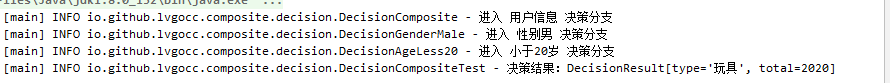
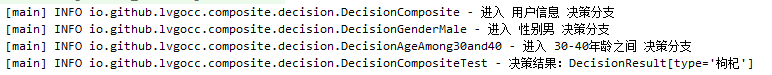
组合模式 🌴

diff --git a/composite/src/main/java/io/github/lvgocc/composite/decision/DecisionResult.java b/composite/src/main/java/io/github/lvgocc/composite/decision/DecisionResult.java
@@ -19,19 +19,10 @@ public class DecisionResult extends DecisionComponent {
      * 商品类型
      */
     private String type;
-    /**
-     * 商品数量
-     */
-    private int total;
 
-    public DecisionResult(String name, String type, int total) {
+    public DecisionResult(String name, String type) {
         super(name);
         this.type = type;
-        this.total = total;
-    }
-
-    public DecisionResult(String name) {
-        super(name);
     }
 
     public String getType() {
@@ -42,19 +33,10 @@ public class DecisionResult extends DecisionComponent {
         this.type = type;
     }
 
-    public int getTotal() {
-        return total;
-    }
-
-    public void setTotal(int total) {
-        this.total = total;
-    }
-
     @Override
     public String toString() {
         return new StringJoiner(", ", DecisionResult.class.getSimpleName() + "[", "]")
                 .add("type='" + type + "'")
-                .add("total=" + total)
                 .toString();
     }
 

diff --git a/composite/src/test/java/io/github/lvgocc/composite/decision/DecisionCompositeTest.java b/composite/src/test/java/io/github/lvgocc/composite/decision/DecisionCompositeTest.java
@@ -34,8 +34,8 @@ class DecisionCompositeTest {
         genderMale.add(ageLess20);
         genderMale.add(ageThan40);
 
-        ageLess20.add(new DecisionResult("决策结果", "玩具", 2020));
-        ageAmong30and40.add(new DecisionResult("决策结果", "枸杞", 2020));
+        ageLess20.add(new DecisionResult("决策结果", "玩具"));
+        ageAmong30and40.add(new DecisionResult("决策结果", "枸杞"));
     }
 
     @Test

diff --git a/composite/README.md b/composite/README.md
@@ -94,7 +94,7 @@
 
 
 
-输入参数：男性、11岁
+输入参数：男性、35岁
 
 输出结果：
 
